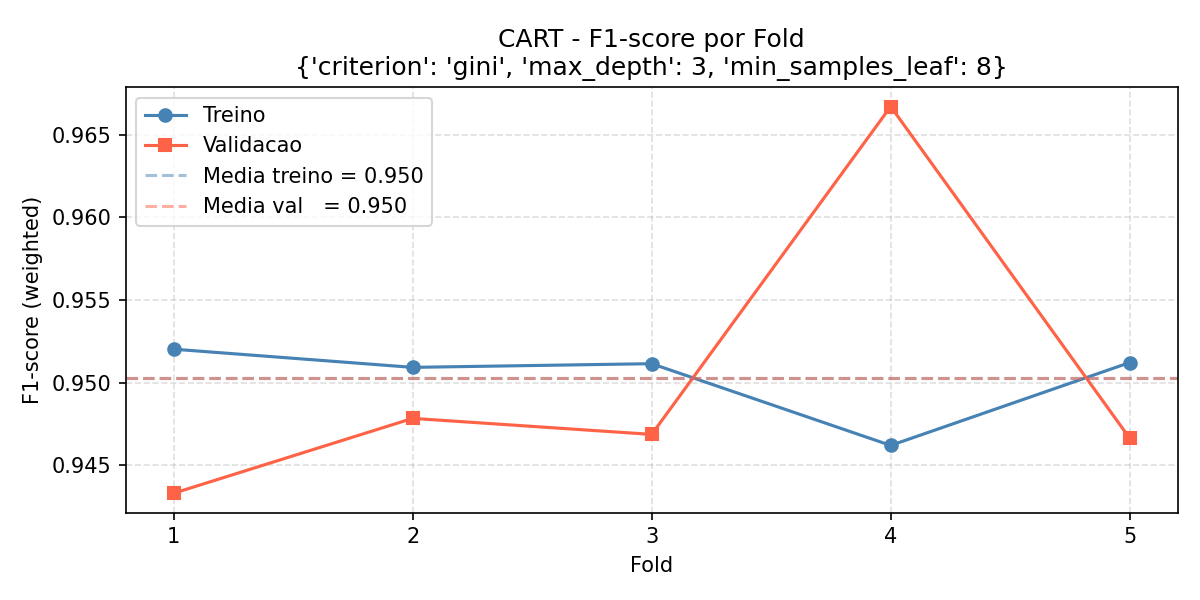
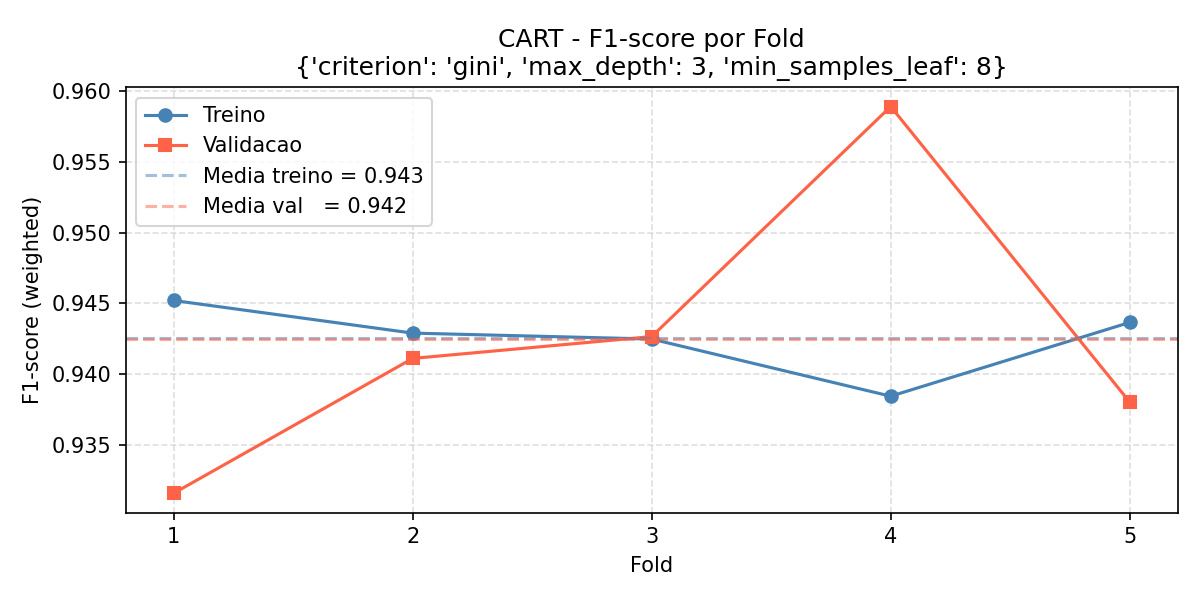
Update model evaluation metrics and results
- Changed scoring method from "f1_weighted" to "f1_macro" in cart and MLP summaries.
- Updated mean and variance F1 scores for training and validation in cart and MLP results.
- Modified fold scores for training and validation in both models to reflect new evaluations.
- Adjusted test summary metrics to align with updated validation scores for both models.
- Updated binary figures for F1 scores per fold and comparison between models.

diff --git a/02_cart.py b/02_cart.py
@@ -51,7 +51,7 @@ clf = GridSearchCV(
     model,
     param_grid,
     cv=cv,
-    scoring='f1_weighted',
+    scoring='f1_macro',
     return_train_score=True,
     n_jobs=-1,
     verbose=1,
@@ -60,7 +60,7 @@ clf = GridSearchCV(
 n_combinacoes = 2 * 5 * 4
 print(f"\nIniciando GridSearchCV:")
 print(f"  {n_combinacoes} combinacoes x {N_FOLDS} folds = {n_combinacoes * N_FOLDS} fits")
-print(f"  Scoring: f1_weighted  |  CV: StratifiedKFold(n={N_FOLDS})\n")
+print(f"  Scoring: f1_macro  |  CV: StratifiedKFold(n={N_FOLDS})\n")
 clf.fit(X, y)
 
 # salva resultados
@@ -68,7 +68,7 @@ results = pd.DataFrame(clf.cv_results_)
 results.to_csv("resultados/cart_cv_results.csv", index=False)
 
 # top-10 configuracoes
-print("\nTOP 10 CONFIGURACOES (por f1_weighted medio de validacao):")
+print("\nTOP 10 CONFIGURACOES (por f1_macro medio de validacao):")
 cols_exibir = [
     'param_criterion', 'param_max_depth', 'param_min_samples_leaf',
     'mean_train_score', 'mean_test_score', 'std_test_score',
@@ -133,7 +133,7 @@ joblib.dump(clf.best_estimator_, "modelos/cart_melhor.pkl")
 summary = {
     "best_params": {k: (v if v is not None else "None") for k, v in best_params.items()},
     "n_folds": N_FOLDS,
-    "scoring": "f1_weighted",
+    "scoring": "f1_macro",
     "mean_train_f1": float(mean_train),
     "mean_val_f1": float(mean_val),
     "vies": float(abs(mean_train - mean_val)),

diff --git a/03_mlp.py b/03_mlp.py
@@ -69,7 +69,7 @@ clf = GridSearchCV(
     pipe,
     param_grid,
     cv=cv,
-    scoring='f1_weighted',
+    scoring='f1_macro',
     return_train_score=True,
     n_jobs=-1,
     verbose=1,
@@ -78,7 +78,7 @@ clf = GridSearchCV(
 n_combinacoes = 5 * 2 * 2
 print(f"\nIniciando GridSearchCV:")
 print(f"  {n_combinacoes} combinacoes x {N_FOLDS} folds = {n_combinacoes * N_FOLDS} fits")
-print(f"  Scoring: f1_weighted  |  CV: StratifiedKFold(n={N_FOLDS})\n")
+print(f"  Scoring: f1_macro  |  CV: StratifiedKFold(n={N_FOLDS})\n")
 clf.fit(X, y)
 
 # salva resultados
@@ -86,7 +86,7 @@ results = pd.DataFrame(clf.cv_results_)
 results.to_csv("resultados/mlp_cv_results.csv", index=False)
 
 # top-10 configuracoes
-print("\nTOP 10 CONFIGURACOES (por f1_weighted medio de validacao):")
+print("\nTOP 10 CONFIGURACOES (por f1_macro medio de validacao):")
 cols_exibir = [
     'param_mlp__hidden_layer_sizes',
     'param_mlp__activation',
@@ -155,7 +155,7 @@ joblib.dump(clf.best_estimator_, "modelos/mlp_melhor.pkl")
 summary = {
     "best_params": {k: str(v) for k, v in best_params.items()},
     "n_folds": N_FOLDS,
-    "scoring": "f1_weighted",
+    "scoring": "f1_macro",
     "mean_train_f1": float(mean_train),
     "mean_val_f1": float(mean_val),
     "vies": float(abs(mean_train - mean_val)),

diff --git a/04_teste_cego.py b/04_teste_cego.py
@@ -143,13 +143,13 @@ for avg in ["weighted", "macro"]:
     print(f"  F1-score  ({avg}){'':<8} {f_cart:>10.4f} {f_mlp:>10.4f}")
     print()
 
-print("COMPARACAO VALIDACAO x TESTE CEGO")
+print("COMPARACAO VALIDACAO x TESTE CEGO (f1_macro)")
 print(f"{'Modelo':<10} {'f1_val_medio':>14} {'f1_teste':>10} {'diferenca':>12}")
 print("-" * 48)
-print(f"{'CART':<10} {cart_summary['mean_val_f1']:>14.4f} {f1w_cart:>10.4f} "
-      f"{abs(cart_summary['mean_val_f1'] - f1w_cart):>12.4f}")
-print(f"{'MLP':<10} {mlp_summary['mean_val_f1']:>14.4f} {f1w_mlp:>10.4f} "
-      f"{abs(mlp_summary['mean_val_f1'] - f1w_mlp):>12.4f}")
+print(f"{'CART':<10} {cart_summary['mean_val_f1']:>14.4f} {f1m_cart:>10.4f} "
+      f"{abs(cart_summary['mean_val_f1'] - f1m_cart):>12.4f}")
+print(f"{'MLP':<10} {mlp_summary['mean_val_f1']:>14.4f} {f1m_mlp:>10.4f} "
+      f"{abs(mlp_summary['mean_val_f1'] - f1m_mlp):>12.4f}")
 
 # matrizes de confusao
 nomes_curtos = ["verde", "amarelo", "vermelho", "preto"]
